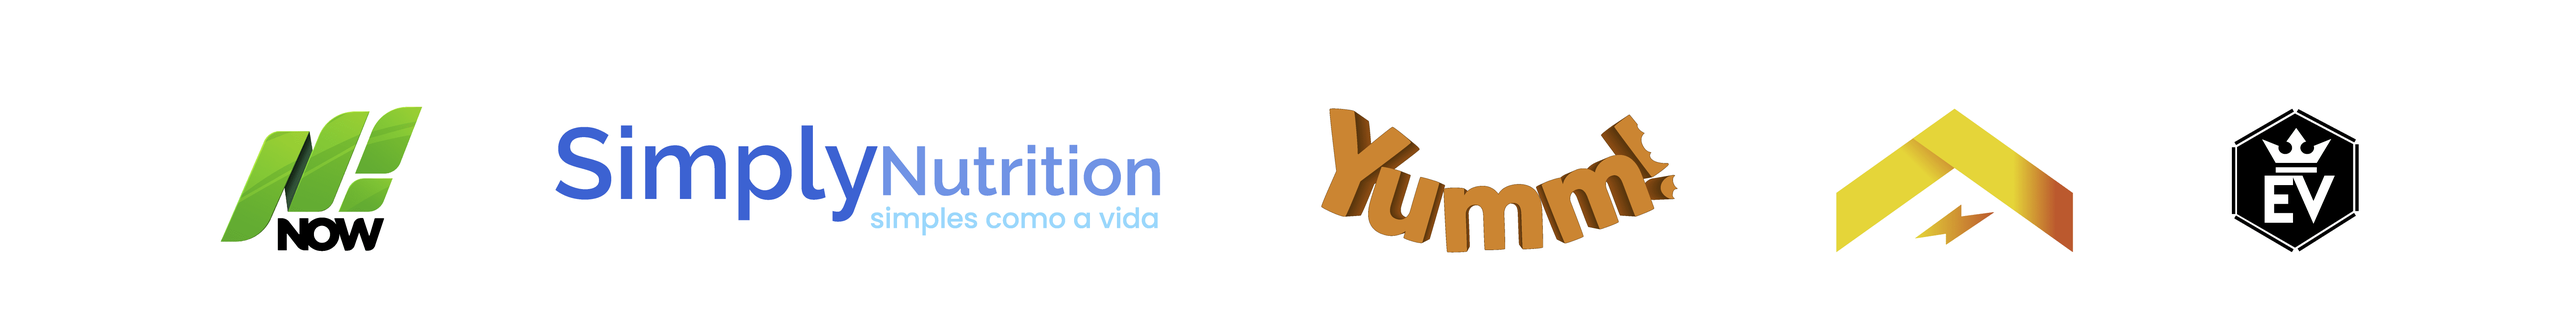
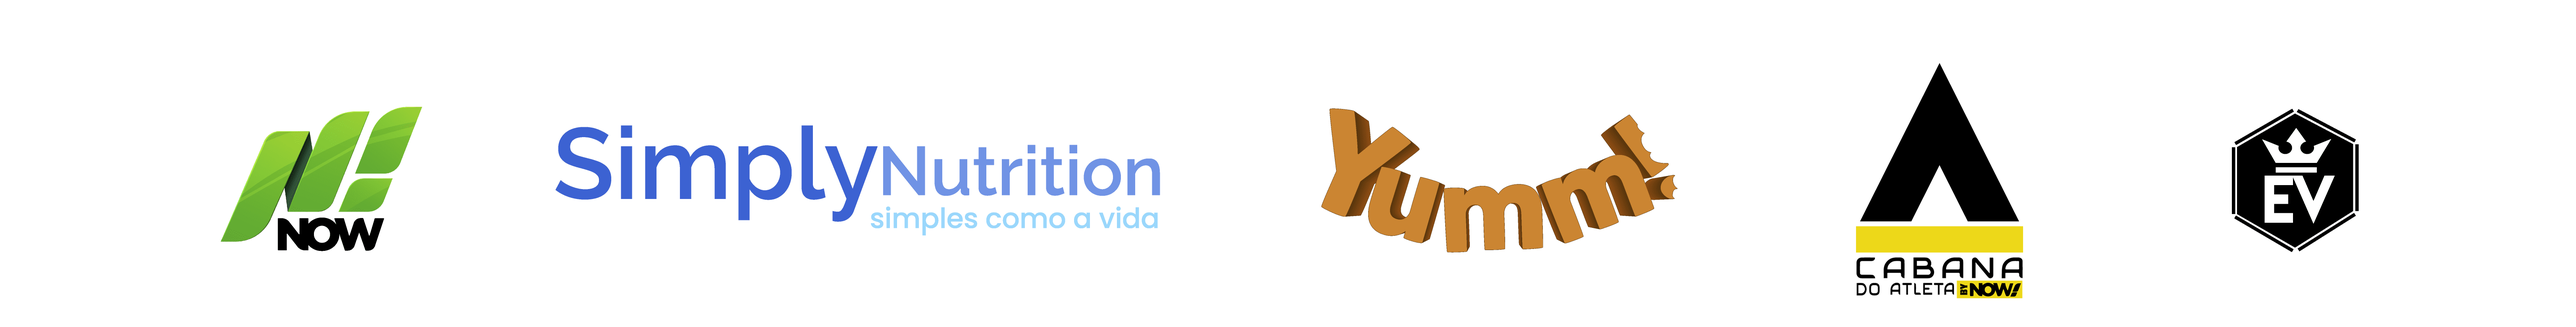
icones adicionados

Changed region(s): [[0.7159, 0.2121, 0.8092, 0.9091]]

diff --git a/marcas.html b/marcas.html
@@ -77,7 +77,7 @@
                 Lorem ipsum dolor sit, amet consectetur adipisicing elit.
                 Tempora ut dolor, recusandae explicabo a, vero quas cum
               </p> -->
-              <button class="marca-botao animation-button">Saiba Mais</button>
+              <p>Mais informações em breve.</p>
             </div>
             <div class="marca-card" id="id-nutrition">
               <figure>
@@ -91,7 +91,7 @@
                 Lorem ipsum dolor sit, amet consectetur adipisicing elit.
                 Tempora ut dolor, recusandae explicabo a, vero quas cum
               </p> -->
-              <button class="marca-botao animation-button">Saiba Mais</button>
+              <p>Mais informações em breve.</p>
             </div>
             <div class="marca-card" id="id-nutrition">
               <figure>
@@ -105,7 +105,7 @@
                 Lorem ipsum dolor sit, amet consectetur adipisicing elit.
                 Tempora ut dolor, recusandae explicabo a, vero quas cum
               </p> -->
-              <button class="marca-botao animation-button">Saiba Mais</button>
+              <p>Mais informações em breve.</p>
             </div>
             <div class="marca-card" id="id-nutrition">
               <figure>
@@ -119,7 +119,7 @@
                 Lorem ipsum dolor sit, amet consectetur adipisicing elit.
                 Tempora ut dolor, recusandae explicabo a, vero quas cum
               </p> -->
-              <button class="marca-botao animation-button">Saiba Mais</button>
+              <p>Mais informações em breve.</p>
             </div>
           </div>
         </section>

diff --git a/sobre-nos.html b/sobre-nos.html
@@ -55,7 +55,7 @@
         <div class="grid">
           <div class="item">
             <div class="item-container">
-              <i class="grid-item-icon fa-solid fa-bullseye-arrow"></i>
+              <i class="grid-item-icon fa-solid fa-eye"></i>
               <article>
                 <h3 class="grid-item-title">
                   Visão: Onde queremos quer chegar no futuro
@@ -70,7 +70,7 @@
           </div>
           <div class="item">
             <div class="item-container">
-              <i class="grid-item-icon"></i>
+              <i class="grid-item-icon fa-solid fa-square-check"></i>
               <article>
                 <h3 class="grid-item-title">Missão: Propósito da empresa</h3>
                 <p class="grid-item-text">
@@ -82,7 +82,7 @@
           </div>
           <div class="item">
             <div class="item-container">
-              <i class="grid-item-icon"></i>
+              <i class="grid-item-icon fa-regular fa-gem"></i>
               <article>
                 <h3 class="grid-item-title">Valores: Princípios e condutas</h3>
                 <p class="grid-item-text">

diff --git a/assets/css/style-new.scss b/assets/css/style-new.scss
@@ -71,7 +71,7 @@ figure {
       align-self: center;
     }
     img {
-      width: 80px;
+      width: 97px;
     }
   }
   nav {
@@ -386,13 +386,14 @@ section:first-of-type {
         }
       }
       .grid-item-icon {
+        text-align: center;
         color: white;
         display: block;
-        height: 40px;
-        width: 20px;
-        padding: 10px 20px;
+        width: max-content;
         border-radius: 10px;
-        background-color: $background-color_2;
+        background-color: #1cc3be;
+        font-size: 33px;
+        padding: 9px;
       }
       .grid-item-text {
         line-height: 1.5rem;

diff --git a/assets/css/style-new.css b/assets/css/style-new.css
@@ -65,7 +65,7 @@ figure {
   align-self: center;
 }
 .navbar .logo img {
-  width: 80px;
+  width: 97px;
 }
 .navbar nav {
   width: 70%;
@@ -393,13 +393,14 @@ section:first-of-type {
   margin-bottom: 2rem;
 }
 #sobrenos-grid-info .grid .item .grid-item-icon {
+  text-align: center;
   color: white;
   display: block;
-  height: 40px;
-  width: 20px;
-  padding: 10px 20px;
+  width: max-content;
   border-radius: 10px;
   background-color: #1cc3be;
+  font-size: 33px;
+  padding: 9px;
 }
 #sobrenos-grid-info .grid .item .grid-item-text {
   line-height: 1.5rem;
